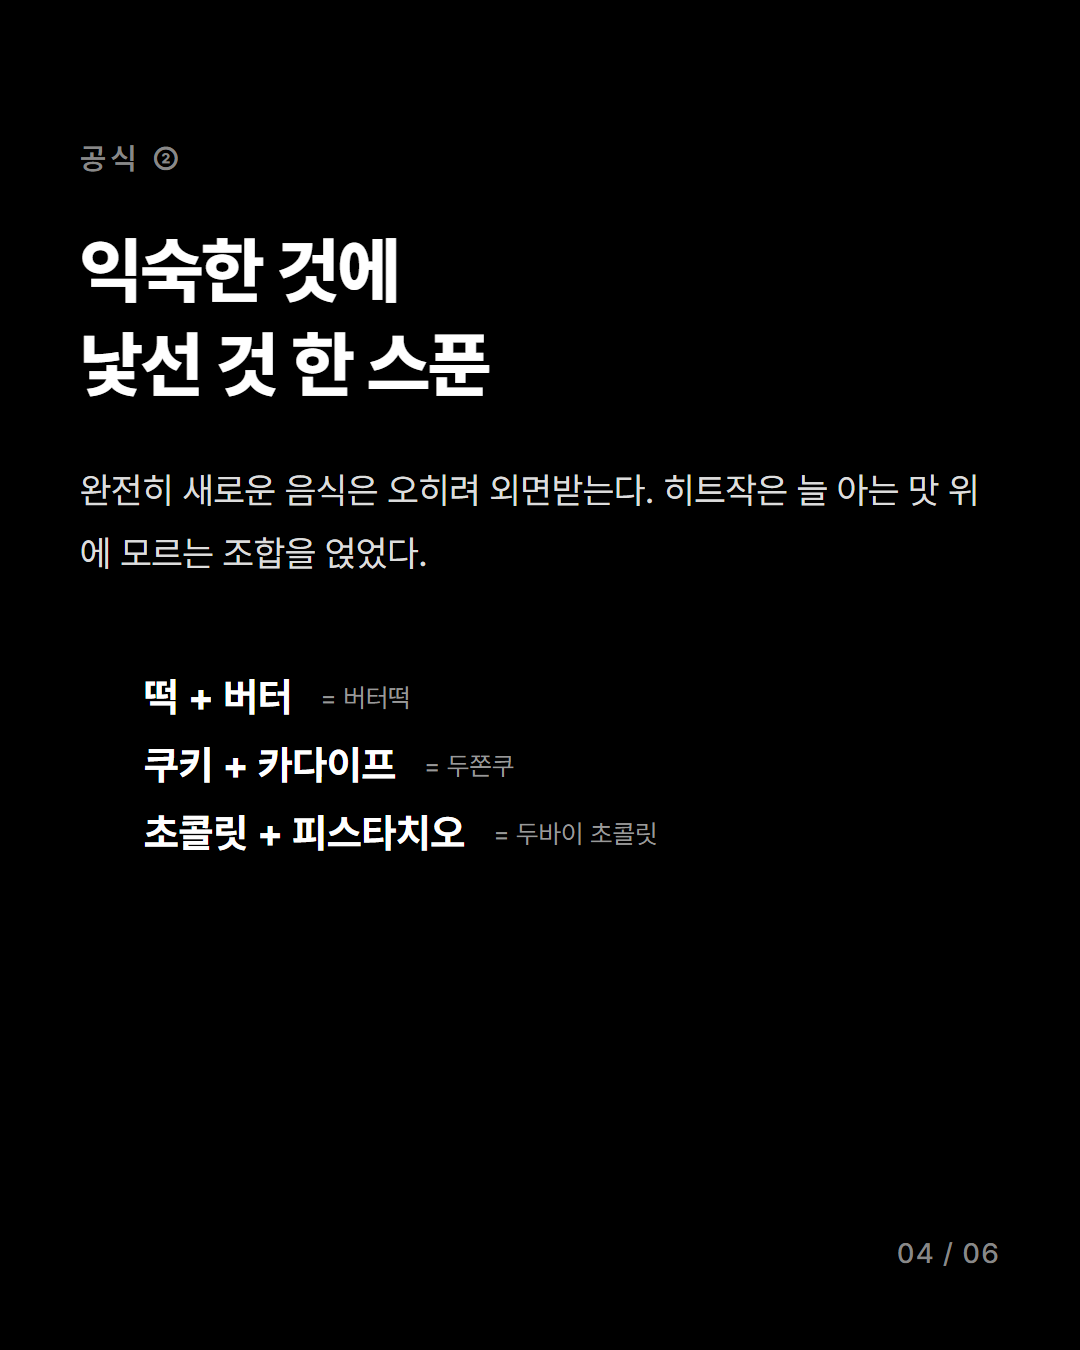
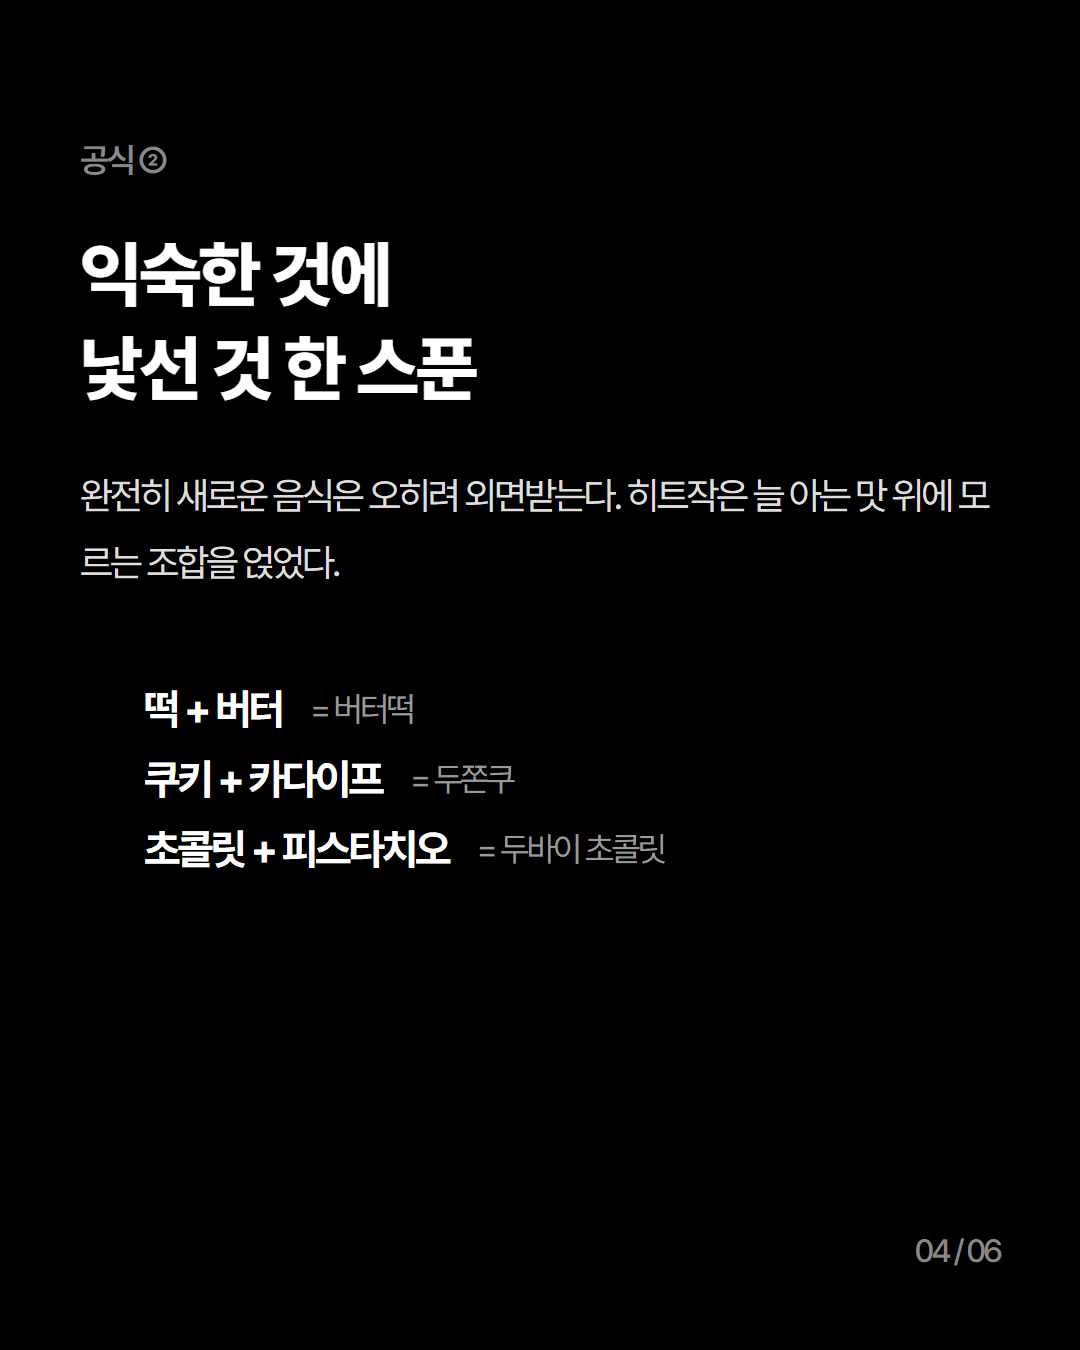
타이포 규칙 강화: 전역 자간 -3px + 최소 폰트 32px
사용자 피드백: AI가 만든 카드뉴스/PPT 특유의 '큰 제목 옆 깨알 같은
작은 글씨(작은 Inter체 느낌)'가 AI 티가 난다. 이를 피하기 위해
(1) Pretendard 자간 -3px을 전역 고정하고
(2) 너무 작은 보조 텍스트를 지양하기로 결정.

- base.css: body letter-spacing -3px 전역 적용, page-num 28->32px
- CLAUDE.md 디자인 절대 규칙에 추가: 카드별 자간 재정의 금지(넓은
  자간 라벨 포함), 최소 폰트 32px, 카드 내 최대/최소 글씨 비율 3:1 이내
- dessert-next 6장: 26~30px대 보조 텍스트를 전부 34px 이상으로 상향,
  카드별 letter-spacing 재정의 제거 후 재캡처

diff --git a/output/dessert-next/04.html b/output/dessert-next/04.html
@@ -11,19 +11,17 @@
   gap: 48px;
 }
 .label {
-  font-size: 30px;
+  font-size: 34px;
   font-weight: 600;
   color: #888888;
-  letter-spacing: 0.15em;
 }
 h2 {
   font-size: 72px;
   font-weight: 800;
   line-height: 1.3;
-  letter-spacing: -0.02em;
 }
 p {
-  font-size: 36px;
+  font-size: 38px;
   font-weight: 400;
   line-height: 1.75;
   color: #dddddd;
@@ -38,7 +36,7 @@ p {
   display: flex;
   align-items: center;
   gap: 28px;
-  font-size: 40px;
+  font-size: 42px;
   font-weight: 700;
 }
 .plus {
@@ -49,7 +47,7 @@ p {
   text-align: center;
 }
 .tag {
-  font-size: 26px;
+  font-size: 34px;
   font-weight: 400;
   color: #999999;
 }

diff --git a/output/dessert-next/05.html b/output/dessert-next/05.html
@@ -11,16 +11,14 @@
   gap: 56px;
 }
 .label {
-  font-size: 30px;
+  font-size: 34px;
   font-weight: 600;
   color: #888888;
-  letter-spacing: 0.15em;
 }
 h2 {
   font-size: 64px;
   font-weight: 800;
   line-height: 1.35;
-  letter-spacing: -0.02em;
 }
 .check {
   display: flex;
@@ -31,7 +29,7 @@ h2 {
   display: flex;
   align-items: baseline;
   gap: 24px;
-  font-size: 38px;
+  font-size: 40px;
   font-weight: 500;
   line-height: 1.5;
   color: #eeeeee;
@@ -42,7 +40,7 @@ h2 {
   color: #ffffff;
 }
 .note {
-  font-size: 32px;
+  font-size: 36px;
   color: #999999;
   line-height: 1.6;
 }

diff --git a/templates/base.css b/templates/base.css
@@ -17,6 +17,7 @@ body {
   background: #000000;
   color: #ffffff;
   font-family: "Pretendard Variable", Pretendard, sans-serif;
+  letter-spacing: -3px; /* 전역 자간 고정. 카드에서 재정의 금지 */
   -webkit-font-smoothing: antialiased;
 }
 
@@ -32,10 +33,9 @@ body {
   position: absolute;
   right: 80px;
   bottom: 80px;
-  font-size: 28px;
+  font-size: 32px;
   font-weight: 500;
   color: #888888;
-  letter-spacing: 0.05em;
 }
 
 .divider {

diff --git a/output/dessert-next/01.html b/output/dessert-next/01.html
@@ -18,7 +18,6 @@
 .word {
   font-size: 88px;
   font-weight: 800;
-  letter-spacing: -0.02em;
   line-height: 1.2;
 }
 .word.dim1 { color: #555555; }
@@ -27,11 +26,10 @@ h1 {
   font-size: 100px;
   font-weight: 800;
   line-height: 1.25;
-  letter-spacing: -0.02em;
   margin-bottom: 64px;
 }
 .hook {
-  font-size: 34px;
+  font-size: 38px;
   font-weight: 400;
   color: #bbbbbb;
   line-height: 1.6;

diff --git a/output/dessert-next/06.html b/output/dessert-next/06.html
@@ -16,19 +16,17 @@ h2 {
   font-size: 76px;
   font-weight: 800;
   line-height: 1.4;
-  letter-spacing: -0.02em;
 }
 .sub {
-  font-size: 34px;
+  font-size: 38px;
   color: #bbbbbb;
   line-height: 1.7;
 }
 .cta {
   margin-top: 24px;
-  font-size: 30px;
+  font-size: 34px;
   font-weight: 600;
   color: #888888;
-  letter-spacing: 0.05em;
 }
 </style>
 </head>

diff --git a/output/dessert-next/03.html b/output/dessert-next/03.html
@@ -11,19 +11,17 @@
   gap: 48px;
 }
 .label {
-  font-size: 30px;
+  font-size: 34px;
   font-weight: 600;
   color: #888888;
-  letter-spacing: 0.15em;
 }
 h2 {
   font-size: 72px;
   font-weight: 800;
   line-height: 1.3;
-  letter-spacing: -0.02em;
 }
 p {
-  font-size: 36px;
+  font-size: 38px;
   font-weight: 400;
   line-height: 1.75;
   color: #dddddd;

diff --git a/output/dessert-next/02.html b/output/dessert-next/02.html
@@ -28,7 +28,7 @@ h2 {
 }
 .item:last-child { border-bottom: none; }
 .year {
-  font-size: 30px;
+  font-size: 34px;
   font-weight: 600;
   color: #888888;
   width: 130px;
@@ -39,7 +39,7 @@ h2 {
   font-weight: 700;
 }
 .desc {
-  font-size: 28px;
+  font-size: 34px;
   color: #999999;
   margin-left: auto;
   text-align: right;

diff --git a/CLAUDE.md b/CLAUDE.md
@@ -20,6 +20,8 @@
 - 캔버스: 1080 x 1350px (4:5)
 - 배경 `#000000`, 텍스트 `#ffffff`만 사용. **컬러 금지.** 회색 계조(`#888`, `#aaa` 등)는 보조 텍스트·구분선에 허용.
 - 폰트: Pretendard (base.css에서 CDN 로드). 다른 폰트 금지.
+- 자간: 전역 `letter-spacing: -3px` (base.css에서 적용). 카드에서 재정의하지 않는다. 라벨에 넓은 자간(0.1em 등) 주는 것도 금지.
+- 최소 폰트 크기 32px. 보조 텍스트·캡션·페이지 번호도 32px 미만 금지. 큰 제목 대비 너무 작은 글씨가 섞이면 "AI가 만든 PPT" 느낌이 나므로, 한 카드 안에서 가장 큰 글씨와 가장 작은 글씨의 비율은 3:1 이내로 유지한다.
 - 타이포그래피 중심. 이미지·일러스트·이모지 사용 금지. 구분선, 번호, 큰따옴표 같은 타이포 장치는 허용.
 - 레이아웃은 카드마다 자유 구성: 좌상단 정렬, 중앙 정렬, 세로 리듬, 큰 숫자, 인용 블록 등 카드 역할에 맞게 변주하되 게시글 전체의 통일감(여백 체계, 페이지 번호 위치 등)은 유지한다.
 - 안전 여백: 모든 텍스트는 가장자리에서 최소 80px 안쪽에.
